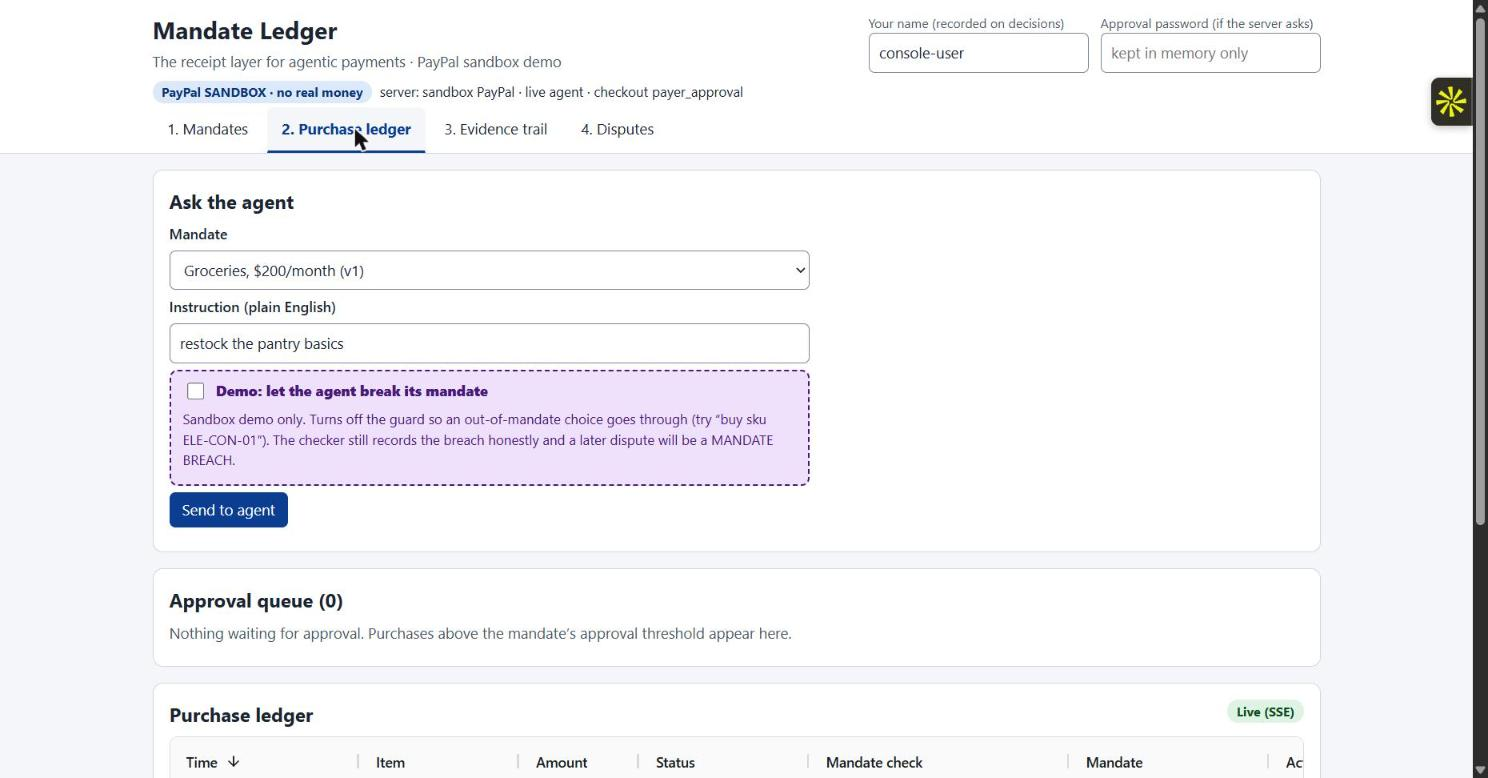
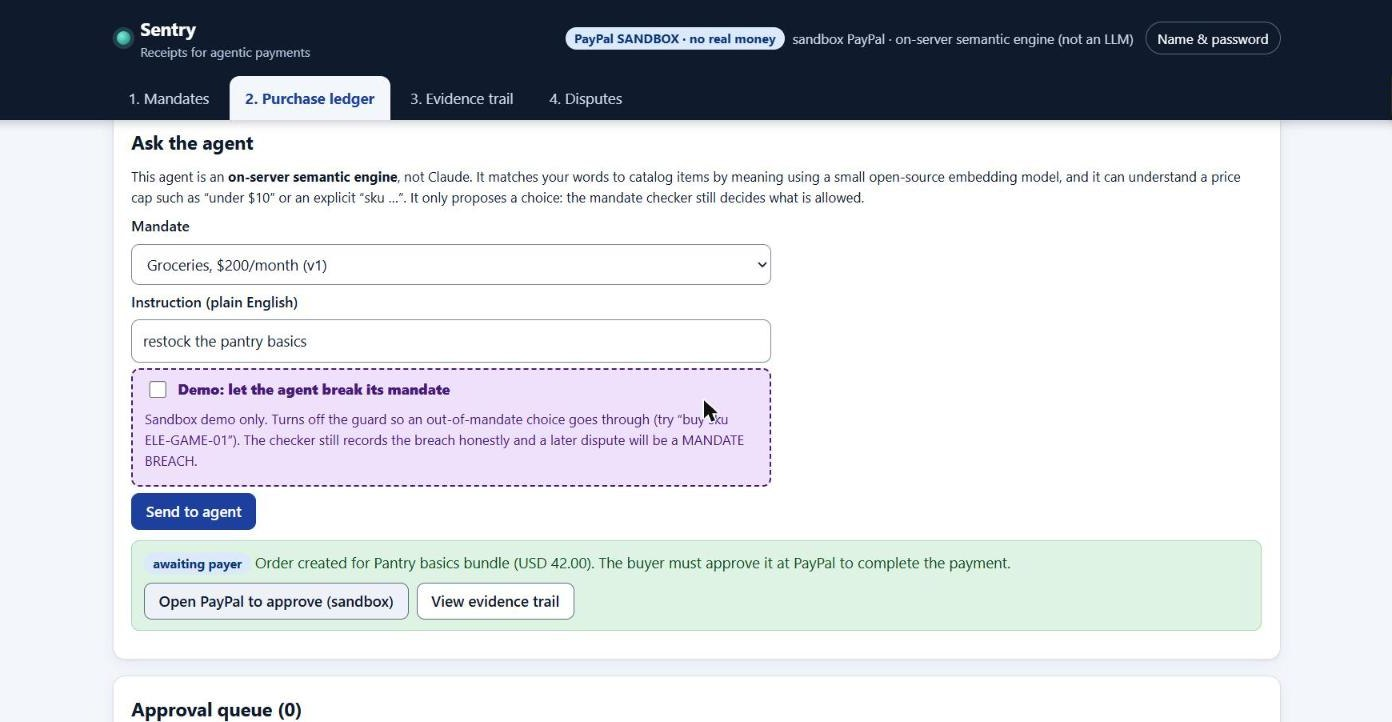
Docs: retake README screenshots for the new UI and add landing page shot

diff --git a/README.md b/README.md
@@ -17,9 +17,14 @@
 <br />
 
 <p align="center">
-  <img src="docs/media/console-ledger.jpg" alt="The purchase ledger in the Sentry console: five completed purchases, each with a 'Within mandate' check, and one labelled 'Demo: agent overrides its mandate'." width="100%" />
+  <img src="docs/media/landing.jpg" alt="The Sentry landing page: the headline 'When an AI agent spends your money, keep the receipt that proves why' beside a four-step example from signed mandate to dispute verdict." width="100%" />
 </p>
-<p align="center"><sub>The purchase ledger. Every row shows the mandate check beside the payment status. The purple row was made in the clearly labelled demo mode.</sub></p>
+<p align="center"><sub>The landing page. It tells the story in three scenes, then lets you step through one purchase and open the console.</sub></p>
+
+<p align="center">
+  <img src="docs/media/console-ledger.jpg" alt="The purchase ledger in the Sentry console: three completed purchases and a pantry order within the mandate, plus a games console marked 'Outside mandate' and 'Demo: agent overrides its mandate'." width="100%" />
+</p>
+<p align="center"><sub>The purchase ledger. Every row shows the mandate check beside the payment status. The red and purple row was made in the clearly labelled demo mode.</sub></p>
 
 ---
 
@@ -373,19 +378,19 @@ Create a mandate, edit its limits (each edit saves a new signed version), revoke
 
 Ask the agent in plain English, pick the mandate, and optionally tick the clearly labelled demo switch. Purchases above the approval threshold wait in the **Approval queue**, and the ledger below updates live over server-sent events.
 
-<p align="center"><img src="docs/media/console-ask-agent.jpg" alt="The Ask the agent form with a mandate picker, an instruction field, the purple demo checkbox that lets the agent break its mandate, and the approval queue." width="90%" /></p>
+<p align="center"><img src="docs/media/console-ask-agent.jpg" alt="The Ask the agent form with the on-server engine note, a mandate picker, an instruction field, the purple demo checkbox, and the result 'Order created for Pantry basics bundle (USD 42.00)'." width="90%" /></p>
 
 ### 3. Evidence trail
 
 For one purchase: the instruction, every option the agent saw with its price, the choice, and a chain-valid badge. **Verify whole chain** checks every record.
 
-<p align="center"><img src="docs/media/console-evidence.jpg" alt="The Evidence trail view showing the agent's instruction, the options it saw with prices, and a valid-chain badge." width="90%" /></p>
+<p align="center"><img src="docs/media/console-evidence.jpg" alt="The Evidence trail for the Games console purchase: the instruction 'buy sku ELE-GAME-01', the option the agent saw, the 'Outside mandate' and demo badges, and a valid-chain badge." width="90%" /></p>
 
 ### 4. Disputes
 
 Sync disputes from the PayPal sandbox, or create a labelled simulated dispute, then assemble the evidence packet and submit it.
 
-<p align="center"><img src="docs/media/console-disputes.jpg" alt="The Dispute console with the sync button and the simulated-dispute fallback." width="90%" /></p>
+<p align="center"><img src="docs/media/console-disputes.jpg" alt="A simulated dispute on Rolled oats 1kg with the assembled response: verdict DEFENSIBLE, chain valid, action 'Provide evidence to PayPal', and a narrative citing the evidence record ids." width="90%" /></p>
 
 Accessibility basics are built in: real buttons and form labels, a tab list for navigation, and text status badges rather than colour alone.
 
